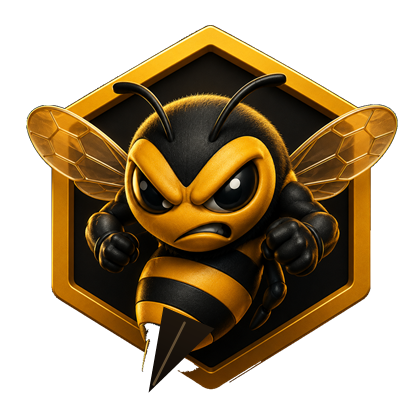
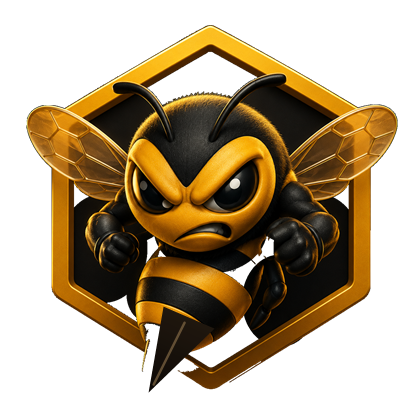
Bees float free — hex interior transparent, fists/chest patched intact; SW v7

diff --git a/sw.js b/sw.js
@@ -1,6 +1,6 @@
 // HIVE service worker — network-first for the page (so deploys show up immediately),
 // cache-first for static assets (icons). Firebase/CDN requests pass through untouched.
-const VERSION = 'hive-v6';
+const VERSION = 'hive-v7';
 
 self.addEventListener('install', () => self.skipWaiting());
 
